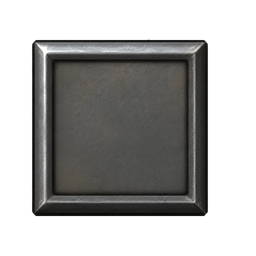
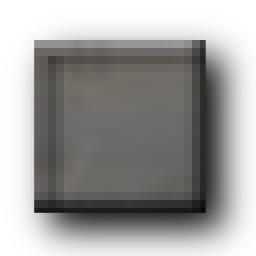
fix: rebuild the high-resolution checkbox as the flat classic box

diff --git a/docs/art/ui-checkbox/prepare_runtime.py b/docs/art/ui-checkbox/prepare_runtime.py
@@ -1,12 +1,18 @@
-"""Prepare the runtime checkbox sprites from the approved checkbox artwork.
+"""Prepare the runtime checkbox sprites from the approved checkmark and the
+classic box.
 
 `approved/` holds the checked and unchecked sprites approved on 2026-09-22.
 They share one base, so the checkmark layer is recovered from the pair. Its
 coverage is exact wherever the base is not opaque. Where its antialiased rim
 covers the opaque base, the coverage is solved from the colour of the nearest
-solidly covered checkmark pixel. The base is fitted to the classic box bounds
-at 8x, and both checked states are composited over it again. The disabled
-state converts only the checkmark to Rec. 709 luma.
+solidly covered checkmark pixel.
+
+The box is the flat classic box of `GUICheckbox.png`, rebuilt at 8x. The
+classic cell is a box over a pure black drop shadow. The shadow is fitted as
+a blurred, offset box, which gives the box's own coverage and colour. Each
+edge band keeps its colour along the edge, relative to the face, and the face
+mottling is upsampled smoothly. Both checked states are composited over the
+box. The disabled state converts only the checkmark to Rec. 709 luma.
 """
 
 from __future__ import annotations
@@ -15,7 +21,8 @@ from pathlib import Path
 
 import numpy as np
 from PIL import Image
-from scipy import ndimage
+from scipy import ndimage, optimize
+from scipy.special import erf
 
 HERE = Path(__file__).resolve().parent
 ROOT = HERE.parents[2]
@@ -23,20 +30,15 @@ OUT = ROOT / "crates/clonk-app/assets/ui-icons"
 CLASSIC = ROOT / "planet/Graphics.c4g/GUICheckbox.png"
 SCALE = 8
 SIZE = 32 * SCALE
-# Resampled margin around the box, for its antialiased edge.
-MARGIN = 6
+# Classic pixels of the unchecked cell: those the box touches, its face, and
+# the straight runs of its edges, as (left, top, right, bottom).
+BOX = (4, 5, 26, 27)
+FACE = (8, 9, 23, 24)
+RUN_X, RUN_Y = slice(9, 22), slice(10, 23)
 
 
 def load(path: Path) -> np.ndarray:
     return np.asarray(Image.open(path).convert("RGBA")).astype(float) / 255
-
-
-def box_bounds(rgba: np.ndarray) -> tuple[int, int, int, int]:
-    """Bounds of the opaque, non-black pixels: the box without the classic
-    box's pure black drop shadow. `hd_ui_icons.rs` applies the same rule."""
-    inside = (rgba[..., 3] >= 128 / 255) & (rgba[..., :3].max(axis=2) >= 8 / 255)
-    ys, xs = np.nonzero(inside)
-    return int(xs.min()), int(ys.min()), int(xs.max()) + 1, int(ys.max()) + 1
 
 
 def premultiply(rgba: np.ndarray) -> np.ndarray:
@@ -67,22 +69,89 @@ def recover_checkmark(checked: np.ndarray, unchecked: np.ndarray) -> tuple[np.nd
     return colour, coverage
 
 
-def fit_base(unchecked: Path, source: tuple[int, ...], target: tuple[int, ...]) -> np.ndarray:
-    """Resample the approved base so its box spans the target bounds."""
-    left, top, right, bottom = source
-    x0, y0, x1, y1 = target
-    scale_x, scale_y = (x1 - x0) / (right - left), (y1 - y0) / (bottom - top)
-    region = (
-        left - MARGIN / scale_x,
-        top - MARGIN / scale_y,
-        right + MARGIN / scale_x,
-        bottom + MARGIN / scale_y,
+def blurred_span(position: np.ndarray, low: float, high: float, sigma: float) -> np.ndarray:
+    """Coverage of [low, high) blurred by a Gaussian, at position."""
+    root = sigma * np.sqrt(2)
+    return 0.5 * (erf((high - position) / root) - erf((low - position) / root))
+
+
+def shadow_alpha(shadow: np.ndarray, xs: np.ndarray, ys: np.ndarray) -> np.ndarray:
+    left, top, right, bottom, sigma, peak = shadow
+    return peak * blurred_span(xs, left, right, sigma) * blurred_span(ys, top, bottom, sigma)
+
+
+def fit_shadow(cell: np.ndarray) -> np.ndarray:
+    """The drop shadow as a blurred box, fitted to the pure black shadow
+    pixels and the empty pixels around the box."""
+    black = (cell[..., :3].max(axis=2) == 0) & (cell[..., 3] > 0)
+    ys, xs = np.nonzero(black | (cell[..., 3] == 0))
+    target = cell[ys, xs, 3]
+    # Accelerate's matrix products raise spurious floating-point flags on
+    # macOS; the fit itself is finite.
+    with np.errstate(divide="ignore", over="ignore", invalid="ignore"):
+        return optimize.least_squares(
+            lambda shadow: shadow_alpha(shadow, xs + 0.5, ys + 0.5) - target,
+            x0=[5.5, 6.5, 27.5, 28.5, 1.5, 0.8],
+        ).x
+
+
+def upsample(face: np.ndarray) -> np.ndarray:
+    height, width = face.shape[:2]
+    channels = (
+        Image.fromarray(face[..., channel].astype(np.float32)).resize(
+            (width * SCALE, height * SCALE), Image.Resampling.BICUBIC
+        )
+        for channel in range(3)
     )
-    size = (x1 - x0 + 2 * MARGIN, y1 - y0 + 2 * MARGIN)
-    fitted = Image.open(unchecked).convert("RGBa").resize(size, Image.Resampling.LANCZOS, box=region)
-    base = Image.new("RGBa", (SIZE, SIZE))
-    base.paste(fitted, (x0 - MARGIN, y0 - MARGIN))
-    return np.asarray(base.convert("RGBA")).astype(float) / 255
+    return np.stack([np.asarray(channel) for channel in channels], axis=2)
+
+
+def classic_box(cell: np.ndarray) -> np.ndarray:
+    """The classic unchecked box and its drop shadow, rebuilt at SCALE."""
+    shadow = fit_shadow(cell)
+    centres_y, centres_x = np.mgrid[0:32, 0:32] + 0.5
+    beneath = shadow_alpha(shadow, centres_x, centres_y)
+    # alpha = coverage + (1 - coverage) * shadow; the shadow adds no colour.
+    body = cell[..., :3].max(axis=2) > 0
+    coverage = np.where(body, np.clip((cell[..., 3] - beneath) / (1 - beneath), 0, 1), 0)
+    colour = premultiply(cell) / np.maximum(coverage[..., None], 1e-9)
+
+    left_pixel, top_pixel, right_pixel, bottom_pixel = BOX
+    face_left, face_top, face_right, face_bottom = FACE
+    left = left_pixel + 1 - coverage[RUN_Y, left_pixel].mean()
+    right = right_pixel - 1 + coverage[RUN_Y, right_pixel - 1].mean()
+    top = top_pixel + 1 - coverage[top_pixel, RUN_X].mean()
+    bottom = bottom_pixel - 1 + coverage[bottom_pixel - 1, RUN_X].mean()
+
+    face = colour[face_top:face_bottom, face_left:face_right]
+    level = np.median(face.reshape(-1, 3), axis=0)
+    rows, columns = np.ones((32, 3)), np.ones((32, 3))
+    for y in (*range(top_pixel, face_top), *range(face_bottom, bottom_pixel)):
+        rows[y] = np.median(colour[y, RUN_X], axis=0) / level
+    for x in (*range(left_pixel, face_left), *range(face_right, right_pixel)):
+        columns[x] = np.median(colour[RUN_Y, x], axis=0) / level
+    row_factor = np.repeat(np.repeat(rows, SCALE, axis=0)[:, None], SIZE, axis=1)
+    column_factor = np.repeat(np.repeat(columns, SCALE, axis=0)[None], SIZE, axis=0)
+    # The left bands start below the top highlight rows, and the top inset
+    # rows start at the left inset line, as in the classic box.
+    column_factor[: (top_pixel + 2) * SCALE, : face_left * SCALE] = 1
+    row_factor[(top_pixel + 2) * SCALE : face_top * SCALE, : (left_pixel + 2) * SCALE] = 1
+
+    texture = upsample(face)
+    pixel = np.arange(SIZE)
+    texture_rows = np.clip(pixel - face_top * SCALE, 0, texture.shape[0] - 1)
+    texture_columns = np.clip(pixel - face_left * SCALE, 0, texture.shape[1] - 1)
+    box_colour = np.clip(texture[texture_rows][:, texture_columns] * row_factor * column_factor, 0, 1)
+
+    def span(low: float, high: float) -> np.ndarray:
+        return np.clip(np.minimum(pixel + 1, high * SCALE) - np.maximum(pixel, low * SCALE), 0, 1)
+
+    box_coverage = span(top, bottom)[:, None] * span(left, right)[None, :]
+    centres_y, centres_x = np.mgrid[0:SIZE, 0:SIZE] + 0.5
+    scaled_shadow = np.array([*shadow[:5] * SCALE, shadow[5]])
+    alpha = box_coverage + (1 - box_coverage) * shadow_alpha(scaled_shadow, centres_x, centres_y)
+    straight = box_colour * box_coverage[..., None] / np.maximum(alpha[..., None], 1e-9)
+    return np.concatenate([straight, alpha[..., None]], axis=2)
 
 
 def over(colour: np.ndarray, coverage: np.ndarray, base: np.ndarray) -> np.ndarray:
@@ -92,24 +161,27 @@ def over(colour: np.ndarray, coverage: np.ndarray, base: np.ndarray) -> np.ndarr
     return np.concatenate([straight, alpha[..., None]], axis=2)
 
 
-def save(rgba: np.ndarray, name: str) -> None:
+def quantize(rgba: np.ndarray) -> np.ndarray:
     pixels = np.clip(np.round(rgba * 255), 0, 255).astype(np.uint8)
     pixels[pixels[..., 3] == 0] = 0
-    Image.fromarray(pixels).save(OUT / name, optimize=True)
+    return pixels
+
+
+def save(rgba: np.ndarray, name: str) -> None:
+    Image.fromarray(quantize(rgba)).save(OUT / name, optimize=True)
 
 
 def main() -> None:
     checked = load(HERE / "approved/checkbox-on.png")
     unchecked = load(HERE / "approved/checkbox-off.png")
     colour, coverage = recover_checkmark(checked, unchecked)
-    classic = box_bounds(load(CLASSIC)[:, :32])
-    target = tuple(bound * SCALE for bound in classic)
-    base = fit_base(HERE / "approved/checkbox-off.png", box_bounds(unchecked), target)
+    # Quantized first, so every uncovered pixel of the checked states matches
+    # the unchecked sprite exactly.
+    base = quantize(classic_box(load(CLASSIC)[:, :32])).astype(float) / 255
     gray = 0.2126 * colour[..., 0] + 0.7152 * colour[..., 1] + 0.0722 * colour[..., 2]
     save(base, "checkbox-off.png")
     save(over(colour, coverage, base), "checkbox-on.png")
     save(over(np.repeat(gray[..., None], 3, axis=2), coverage, base), "checkbox-disabled.png")
-    print(f"classic box {classic}; approved box {box_bounds(unchecked)} fitted to {target}")
 
 
 if __name__ == "__main__":

diff --git a/crates/clonk-app/src/hd_ui_icons.rs b/crates/clonk-app/src/hd_ui_icons.rs
@@ -238,6 +238,64 @@ mod tests {
         );
     }
 
+    /// Premultiplied RGBA of one pixel, in levels.
+    fn premultiplied(image: &ImageData, x: u32, y: u32) -> [f64; 4] {
+        let offset = ((y * image.width() + x) * 4) as usize;
+        let pixel = &image.pixels()[offset..offset + 4];
+        let alpha = f64::from(pixel[3]) / 255.0;
+        [
+            f64::from(pixel[0]) * alpha,
+            f64::from(pixel[1]) * alpha,
+            f64::from(pixel[2]) * alpha,
+            f64::from(pixel[3]),
+        ]
+    }
+
+    #[test]
+    fn unchecked_checkbox_art_averages_back_to_the_flat_classic_box() {
+        // The classic box is flat: a face with one-pixel edge bands over a
+        // soft drop shadow. Averaged over each classic pixel, the replacement
+        // reproduces the classic cell, which a raised bevel cannot.
+        let icons = prepared_sheets().unwrap();
+        let sheet = icons
+            .iter()
+            .find(|sheet| sheet.name == "GUICheckbox.png")
+            .unwrap();
+        let replacement = sheet
+            .replacement
+            .region_replacement([0, 0, 32, 32])
+            .unwrap();
+        let scale = replacement.width() / 32;
+        let mean_difference = (0..32)
+            .flat_map(|y| (0..32).map(move |x| (x, y)))
+            .map(|(x, y)| {
+                let averaged = (0..scale * scale)
+                    .map(|index| {
+                        premultiplied(
+                            replacement,
+                            x * scale + index % scale,
+                            y * scale + index / scale,
+                        )
+                    })
+                    .fold([0.0; 4], |sum, pixel| {
+                        std::array::from_fn(|channel| sum[channel] + pixel[channel])
+                    })
+                    .map(|sum| sum / f64::from(scale * scale));
+                averaged
+                    .iter()
+                    .zip(premultiplied(&sheet.original, x, y))
+                    .map(|(averaged, classic)| (averaged - classic).abs())
+                    .fold(0.0, f64::max)
+            })
+            .sum::<f64>()
+            / 1024.0;
+        assert!(
+            mean_difference <= 3.0,
+            "averaged over each classic pixel, the replacement differs from the classic box by \
+             {mean_difference:.1} levels per pixel"
+        );
+    }
+
     #[test]
     fn checkbox_states_share_identical_uncovered_base_pixels() {
         let icons = prepared_sheets().unwrap();
@@ -249,7 +307,7 @@ mod tests {
         let unchecked = sheet.region_replacement([0, 0, 32, 32]).unwrap();
         for rect in [[32, 0, 32, 32], [96, 0, 32, 32]] {
             let checked = sheet.region_replacement(rect).unwrap();
-            // The upper-left inset and bevel are clear of both checkmarks.
+            // The upper-left face and inset lines are clear of both checkmarks.
             for y in 45..100 {
                 for x in 35..100 {
                     let offset = (y * 256 + x) * 4;
